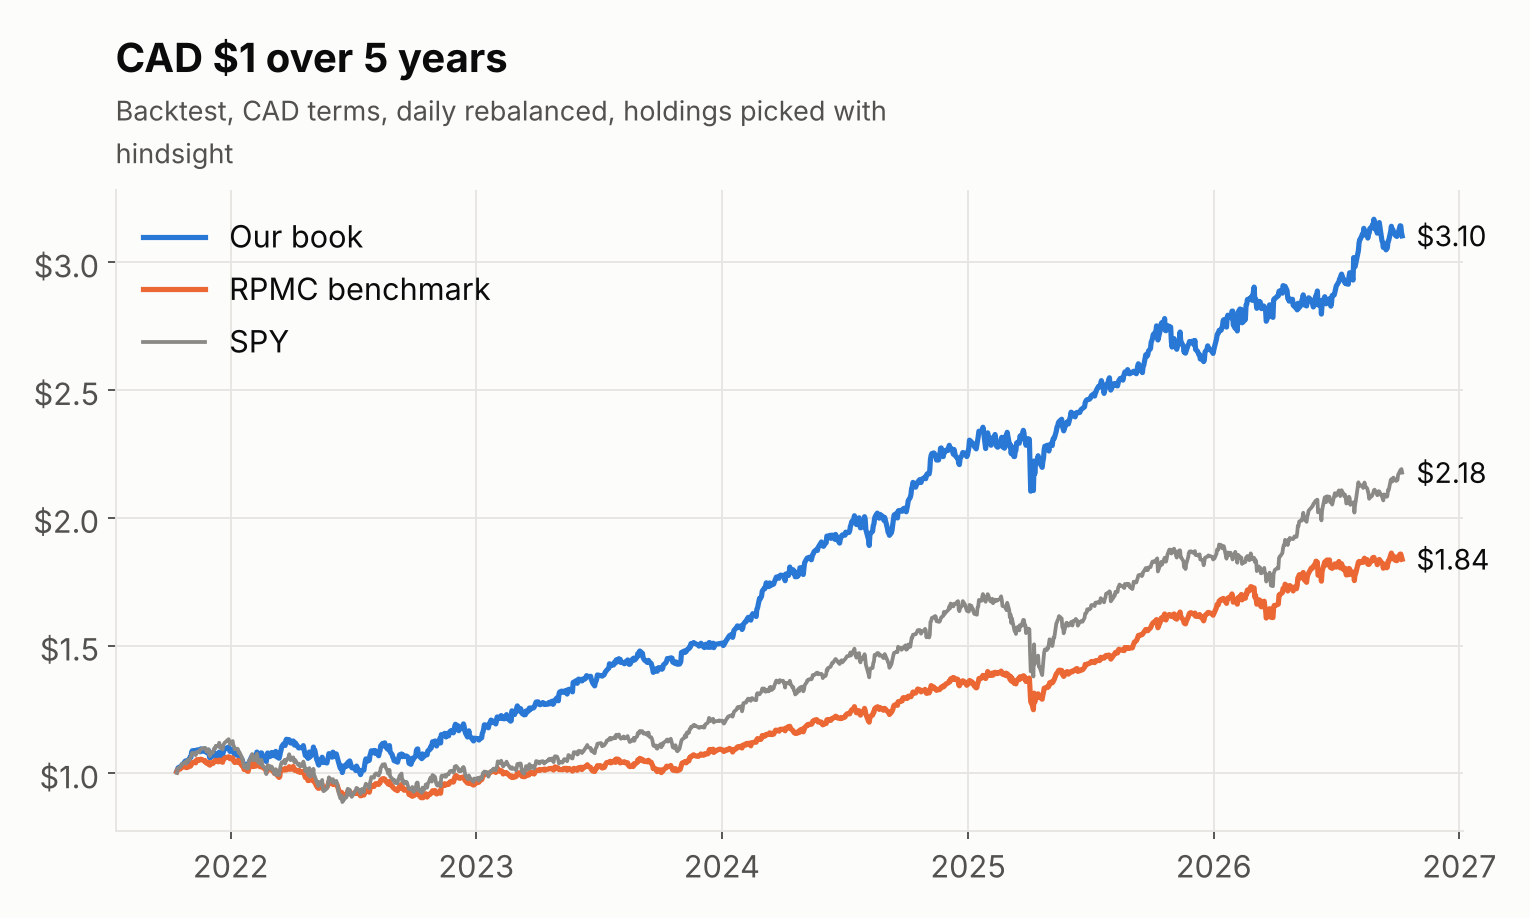
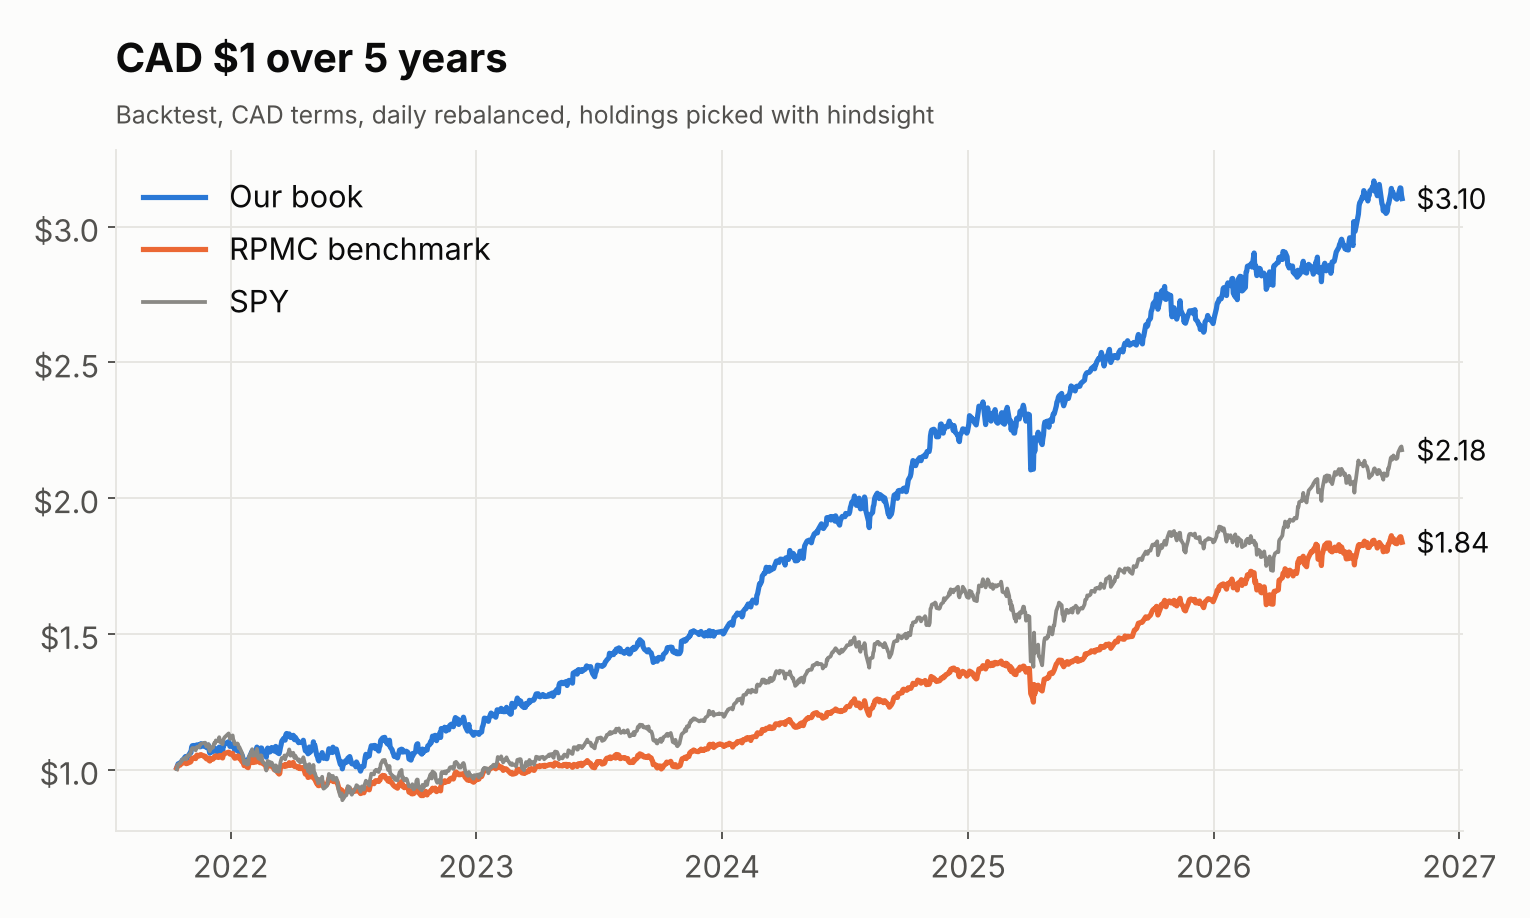
Chart 1: one-line subtitle in a smaller font
Claude-Session: https://claude.ai/code/session_01VXMCK3Uvgp748VhLSJ7hMv

diff --git a/backtest/charts.py b/backtest/charts.py
@@ -30,10 +30,10 @@ plt.rcParams.update({
 })
 
 
-def finish(fig, ax, title, sub, name):
-    sub = textwrap.fill(sub, 64)  # keep the subtitle well inside the figure edge
+def finish(fig, ax, title, sub, name, one_line=False):
+    sub = sub if one_line else textwrap.fill(sub, 64)  # wrapped subtitles stay well inside the figure edge
     ax.set_title(title, pad=16 + 17 * (sub.count("\n") + 1))
-    ax.text(0, 1.02, sub, transform=ax.transAxes, color=INK2, fontsize=11.5, va="bottom", linespacing=1.3)
+    ax.text(0, 1.02, sub, transform=ax.transAxes, color=INK2, fontsize=10.5 if one_line else 11.5, va="bottom", linespacing=1.3)
     fig.tight_layout()
     OUT.mkdir(exist_ok=True)
     fig.savefig(OUT / name, dpi=170)
@@ -56,7 +56,7 @@ def main():
     ax.set_xlim(right=rets.index[-1] + pd.Timedelta(days=90))
     ax.yaxis.set_major_formatter(lambda v, _: f"${v:.1f}")
     ax.legend(loc="upper left")
-    finish(fig, ax, "CAD $1 over 5 years", "Backtest, CAD terms, daily rebalanced, holdings picked with hindsight", "1_growth_of_1.png")
+    finish(fig, ax, "CAD $1 over 5 years", "Backtest, CAD terms, daily rebalanced, holdings picked with hindsight", "1_growth_of_1.png", one_line=True)
 
     # 2. rolling 105-day Sharpe
     def roll(r):
